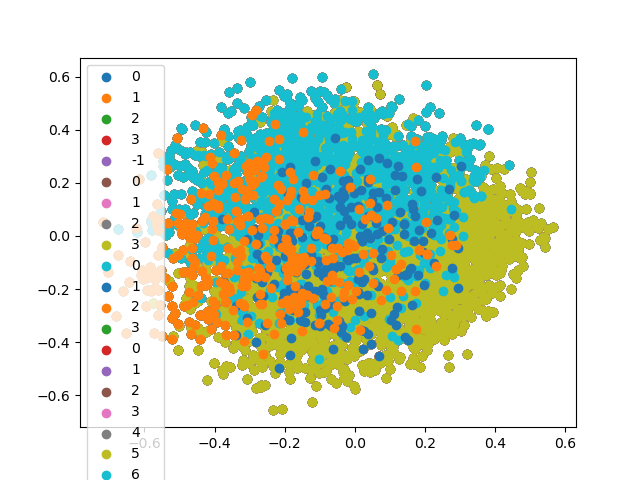
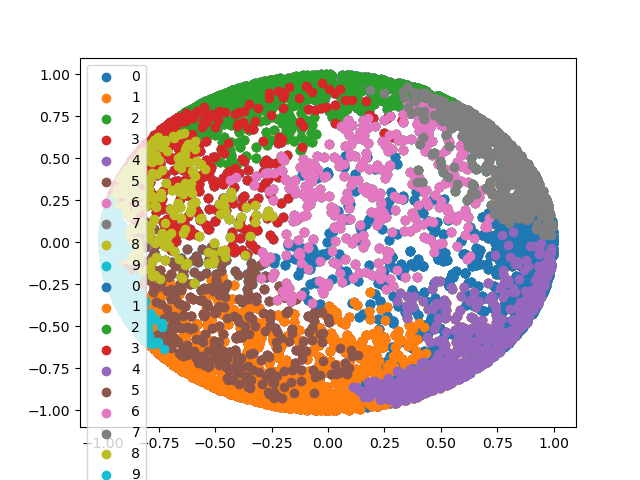
many clustering methods

diff --git a/cluster.py b/cluster.py
@@ -8,7 +8,7 @@ import pandas as pd
 import numpy as np
 from sentence_transformers import SentenceTransformer
 from matplotlib import pyplot as plt
-from sklearn.cluster import KMeans, DBSCAN, Birch, AffinityPropagation, MeanShift, OPTICS, AgglomerativeClustering
+from sklearn.cluster import KMeans, MiniBatchKMeans, DBSCAN, Birch, AffinityPropagation, MeanShift, OPTICS, AgglomerativeClustering
 from sklearn.metrics import silhouette_score
 from sklearn.preprocessing import normalize
 from scipy.spatial.distance import euclidean
@@ -107,6 +107,7 @@ class Clustering():
         normed_X = normalize(X, axis=1, norm='l2') # normalise vector to make cosine similarity effect
         labels = []
         sil = 999
+
         if clusterer == 'kmeans':
             if num_clusters is not None:
                 kmeans = KMeans(n_clusters=num_clusters, random_state=0).fit(normed_X)
@@ -114,8 +115,15 @@ class Clustering():
             else:
                 raise SyntaxError('num_cluster not entered for Kmeans!')
 
+        elif clusterer == 'kmeans_mini':
+            if num_clusters is not None:
+                kmeans = KMeans(n_clusters=num_clusters).fit(normed_X)
+                labels = kmeans.predict(normed_X)
+            else:
+                raise SyntaxError('num_cluster not entered for Kmeans!')
+
         elif clusterer == 'dbscan':
-            dbs = DBSCAN(eps=0.99,min_samples=5,metric=metric)
+            dbs = DBSCAN(eps=0.3,min_samples=9,metric=metric)
             labels = dbs.fit_predict(normed_X)
 
         elif clusterer == 'hdbscan':
@@ -136,7 +144,7 @@ class Clustering():
                 raise SyntaxError('num_cluster not entered for Birch!')
 
         elif clusterer == 'affinity':
-            aff = AffinityPropagation(damping=0.7,random_state=42)
+            aff = AffinityPropagation(damping=0.9,random_state=42)
             aff.fit(normed_X)
             labels = aff.predict(normed_X)
 
@@ -146,7 +154,7 @@ class Clustering():
             labels = ms.predict(normed_X)
 
         elif clusterer == 'optics':
-            optics = OPTICS(eps=0.75, min_samples=10)
+            optics = OPTICS(eps=0.8, min_samples=10)
             labels = optics.fit_predict(normed_X)
 
         elif clusterer == 'agglomerative':
@@ -494,26 +502,29 @@ def main():
 
     """""""""""""""do pca on embedded sentences"""""""""""""""
     # clu.find_best_ncomp_for_pca(embedded_sentences)
-    pca_sentences = clu.do_pca(n_components=160,sentences=embedded_sentences)   #90% var: 160, 85%:120 80%: 90 75% 70 70%: 56
+    pca_sentences = clu.do_pca(n_components=3,sentences=embedded_sentences)   #90% var: 160, 85%:120 80%: 90 75% 70 70%: 56
 
     """""perform elbow method / silhouette method to find optimal k for kmeans"""""
     # clu.do_elbow(pca_sentences,50)
-    # clu.do_silhoulette(pca_sentences,150)
+    # clu.do_silhoulette(pca_sentences,50)
     """"""""""""""""""""""""""""""""""""""""""""""""""""""""""""""""""""""""""""""""
 
     """""""""""""""""""""""""perform different clustering methods"""""""""""""""""""""""""
-    algorithms = ['kmeans','dbscan','gaussian','birch','affinity','meanshift','optics','agglomerative']
-    distance_metric = 'canberra'
-    k=4
+    algorithms = ['kmeans','kmeans_mini','dbscan', 'hdbscan','gaussian','birch','affinity','meanshift','optics','agglomerative']
+    algorithms_competitive = ['kmeans','kmeans_mini','gaussian','birch', 'agglomerative']
+    distance_metric = 'euclidean'
+    k=10
     clustering_result = {}
-    for al in algorithms:
+    for al in algorithms_competitive:
         sil = clu.perform_clustering(pca_sentences,al, num_clusters=k, metric=distance_metric)
         if sil == 999:
             sil = 'failed'
         clustering_result[al] = sil
 
-    for key in clustering_result.keys():
-        print('{}: {}\n'.format(key,clustering_result[key]))
+    sorted_clustering_result = {k: float(v) for k, v in sorted(clustering_result.items(), key=lambda item: item[1],reverse=True)}
+
+    for item in sorted_clustering_result.items():
+        print(item)
     """"""""""""""""""""""""""""""""""""""""""""""""""""""""""""""""""""""""""""""""""""""
 
     """""""""""""""""evaluate k-means"""""""""""""""""
